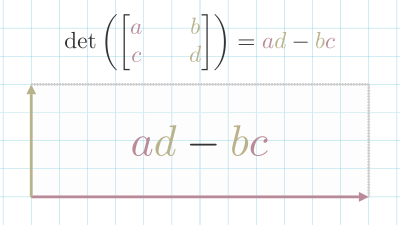
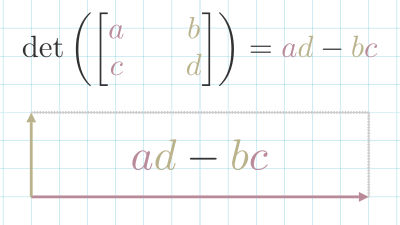
Update determinant cover.

diff --git a/code/manim/determinant_cover.py b/code/manim/determinant_cover.py
@@ -15,7 +15,7 @@ class Determinant(Scene):
         )
 
         determinant = MathTex(
-            "\\det\\left( \\begin{bmatrix}a && b \\\\ c && d \\end{bmatrix}\\right) = ad - bc", font_size=80
+            "\\det\\left( \\begin{bmatrix}a && b \\\\ c && d \\end{bmatrix}\\right) = ad - bc", font_size=105
         ).set_color(text_color)
         determinant[0][5].set_color(vect1_color)
         determinant[0][6].set_color(vect2_color)
@@ -29,12 +29,12 @@ class Determinant(Scene):
         determinant[0][15].set_color(vect2_color)
         determinant[0][16].set_color(vect1_color)
 
-        determinant.move_to(ORIGIN + UP * 2.5)
+        determinant.move_to(ORIGIN + UP * 2.25)
 
         origin = np.array([-6, -3, 0])
 
         vect_1 = np.array([12, 0, 0])
-        vect_2 = np.array([0, 4, 0])
+        vect_2 = np.array([0, 3, 0])
 
         grid_1 = vect_1 + vect_2
         grid_2 = vect_2 + vect_1
